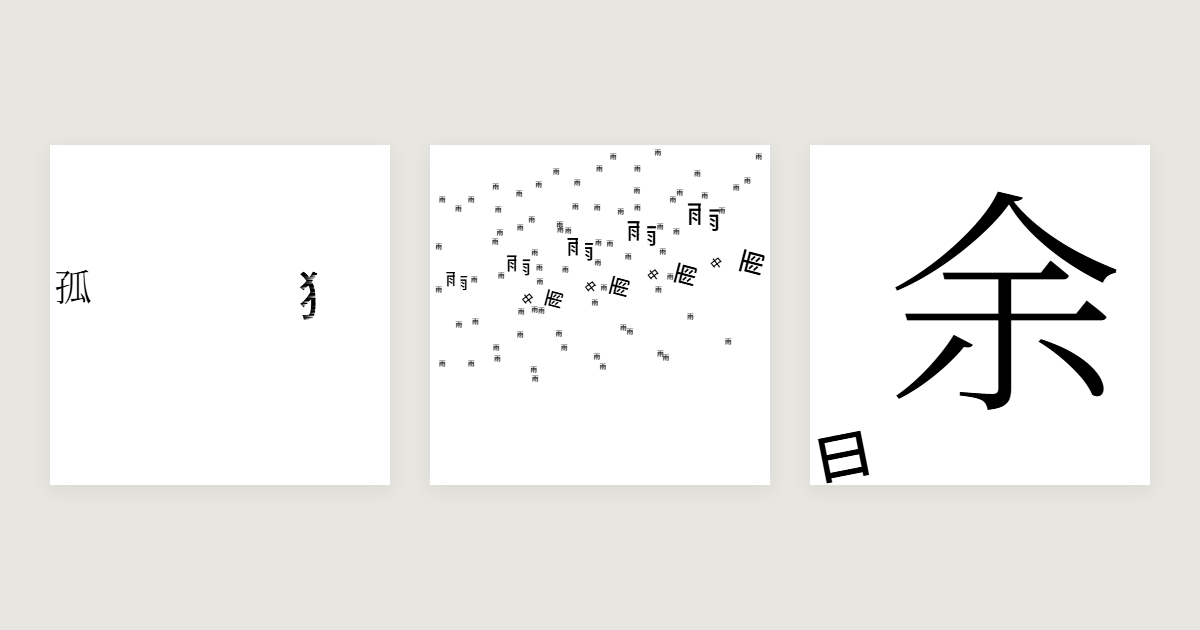
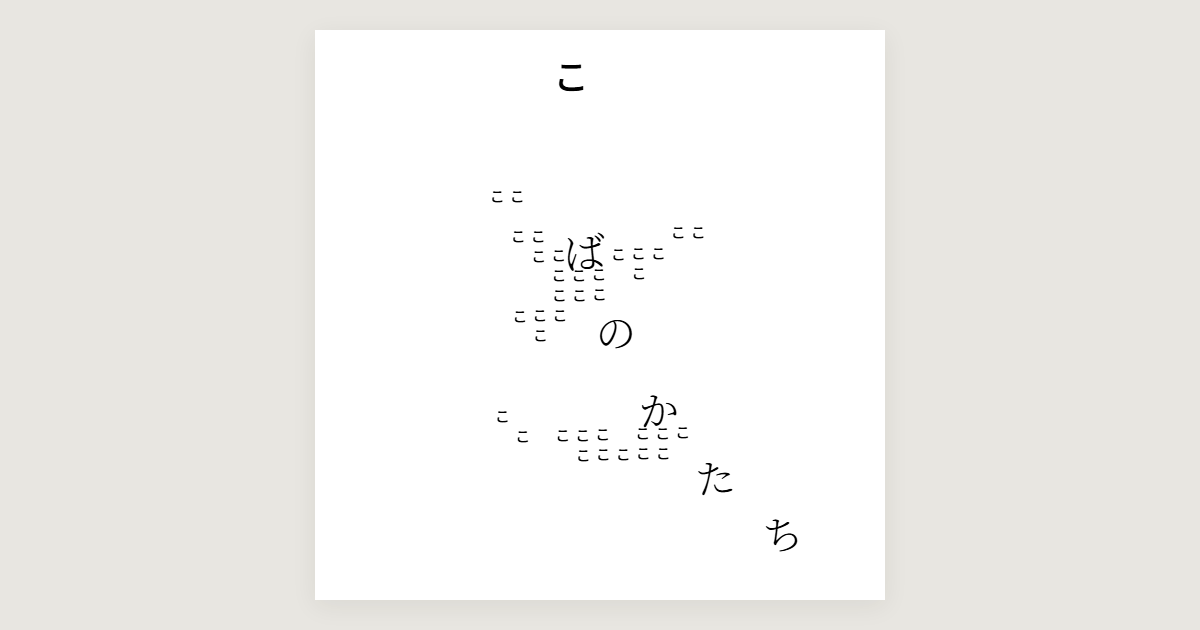
ogp: the site card is the work reading its own name — the v3 page of 「ことばのかたち」, alone

diff --git a/docs/ogp.md b/docs/ogp.md
@@ -8,10 +8,14 @@ per-poem card is served yet, what is ready, and the steps to add one.
 
 ## What is in the repository now
 
-- `public/ogp.png` — the site's card, redrawn for v3: three of the 作例 (孤独 ·
-  雨の中の雨 · 余白) as papers on the ground, laid out as the v2c card was.
+- `public/ogp.png` (addressed as `/ogp.png?v=3`, so that previews cached
+  with the v2c card fetch it again) — the site's card: the work reading its
+  own name. One paper, the v3 page of 「ことばのかたち」 (the page
+  `/?title=ことばのかたち&v=3` draws), in the middle of the ground as the site
+  shows a poem; no other text, since every preview prints the name beside it.
+  A single centred paper also survives the square crop some apps (LINE) make.
   Drawn by the site's own renderer (`tools/examples/make.mjs`, checked with
-  `CHECK=1`); the poems are not altered, cropped or restyled.
+  `CHECK=1`); the poem is not altered, cropped or restyled.
 - `public/og/v3/<name>.png` — for each of the nine 作例, a 1200 × 630 card of
   its own paper (540 px, centred on the ground). Nothing names them yet: they
   are ready for step 1 below and cost nothing while unused.
